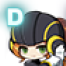
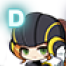
fix: Black B C D, Red A 이미지 수정본 반영

diff --git a/GMS_WEEK_BOSS/index.html b/GMS_WEEK_BOSS/index.html
@@ -850,7 +850,7 @@
 <!-- <script src="hyperstat.js?v=20260901a"></script> 하이퍼스탯 최적화 — 데이터 검증 전까지 내림 -->
 <script src="liberation.js?v=20260901a"></script>
 <script src="starforce_sim.js?v=20260927a"></script>
-<script src="cube.js?v=20260927a"></script><script src="familiar.js?v=20260926a"></script><script src="soulsim.js?v=20260927j"></script><script src="polish.js?v=20260927b"></script><script src="data_frontier.js?v=20260825g"></script><script src="frontier.js?v=20260901b"></script><script src="meundi.js?v=20261003s"></script>
+<script src="cube.js?v=20260927a"></script><script src="familiar.js?v=20260926a"></script><script src="soulsim.js?v=20260927j"></script><script src="polish.js?v=20260927b"></script><script src="data_frontier.js?v=20260825g"></script><script src="frontier.js?v=20260901b"></script><script src="meundi.js?v=20261003t"></script>
 <script src="addoption.js?v=20261002a"></script><script src="bosshp.js?v=20260924b"></script>
 <script src="serverstatus.js?v=20260925a"></script><script src="vendor/quill/quill.min.js?v=1.3.7"></script><script src="community.js?v=20260826l"></script>
 <script src="dailytasks.js?v=20260826c"></script>

diff --git a/GMS_WEEK_BOSS/meundi.js b/GMS_WEEK_BOSS/meundi.js
@@ -127,7 +127,7 @@ function _muSquadHtml(code) {
     const rank = t[0], lv = t.slice(1);
     const cls = ['r', 'k', 'y'][i];
     const team = ['Red', 'Black', 'Yellow'][i];
-    return `<div class="mu-u mu-u--${cls}"><img src="images/meundi/${team}_${rank}.png?v=20261003c" alt="${rank}" width="46" height="46"><span${lv === '0' ? ' class="mu-zero"' : ''}>Lv. ${lv}</span></div>`;
+    return `<div class="mu-u mu-u--${cls}"><img src="images/meundi/${team}_${rank}.png?v=20261003d" alt="${rank}" width="46" height="46"><span${lv === '0' ? ' class="mu-zero"' : ''}>Lv. ${lv}</span></div>`;
   }).join('');
   return `<div class="mu-card${shaky ? ' mu-card--shaky' : ''}${rep ? ' mu-card--rep' : ''}"${shaky ? ' title="근소하거나 결과가 갈린 조합"' : rep ? ' title="단일 제보"' : note ? ` title="${note}"` : ''}><div class="mu-units">${tiles}</div></div>`;
 }
